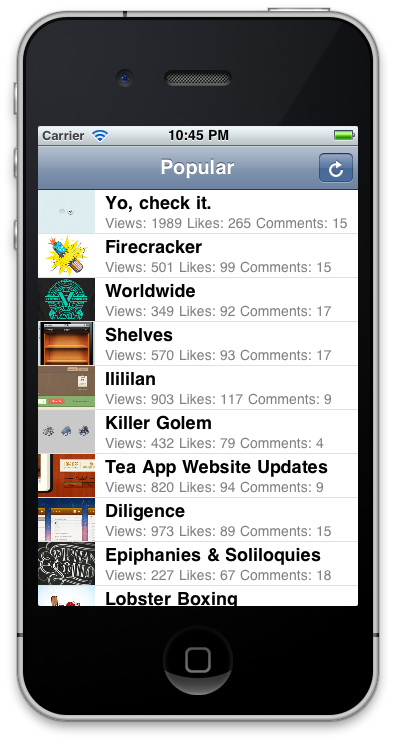
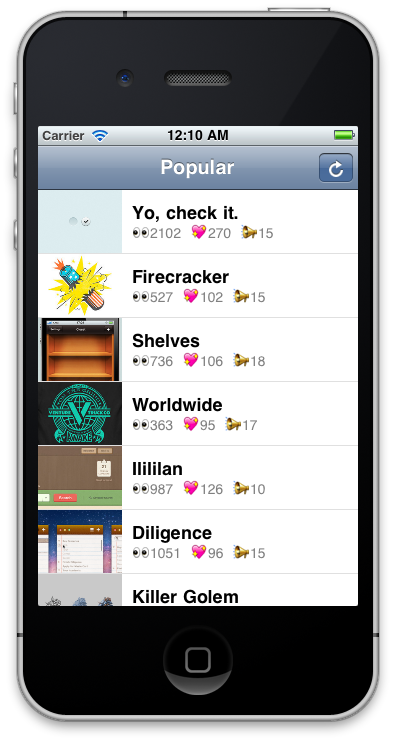
updating ios sample app cells

diff --git a/SpectttatorTest-iOS/SpectttatorTest-iOS/RootViewController.m b/SpectttatorTest-iOS/SpectttatorTest-iOS/RootViewController.m
@@ -42,6 +42,10 @@
     [super viewDidAppear:animated];
 }
 
+- (CGFloat)tableView:(UITableView *)tableView heightForRowAtIndexPath:(NSIndexPath *)indexPath{
+    return 64.0f;
+}
+
 - (NSInteger)numberOfSectionsInTableView:(UITableView *)tableView{
     return 1;
 }
@@ -61,7 +65,7 @@
 
     SPShot *aShot = [self.shots objectAtIndex:indexPath.row];
     cell.textLabel.text = aShot.title;
-    cell.detailTextLabel.text = [NSString stringWithFormat:@"Views: %lu Likes: %lu Comments: %lu", 
+    cell.detailTextLabel.text = [NSString stringWithFormat:@"👀%lu  💓%lu  📢%lu", 
                                  aShot.viewsCount, aShot.likesCount, aShot.commentsCount];
     
     // A little image cache so we only retrieve the image once,
